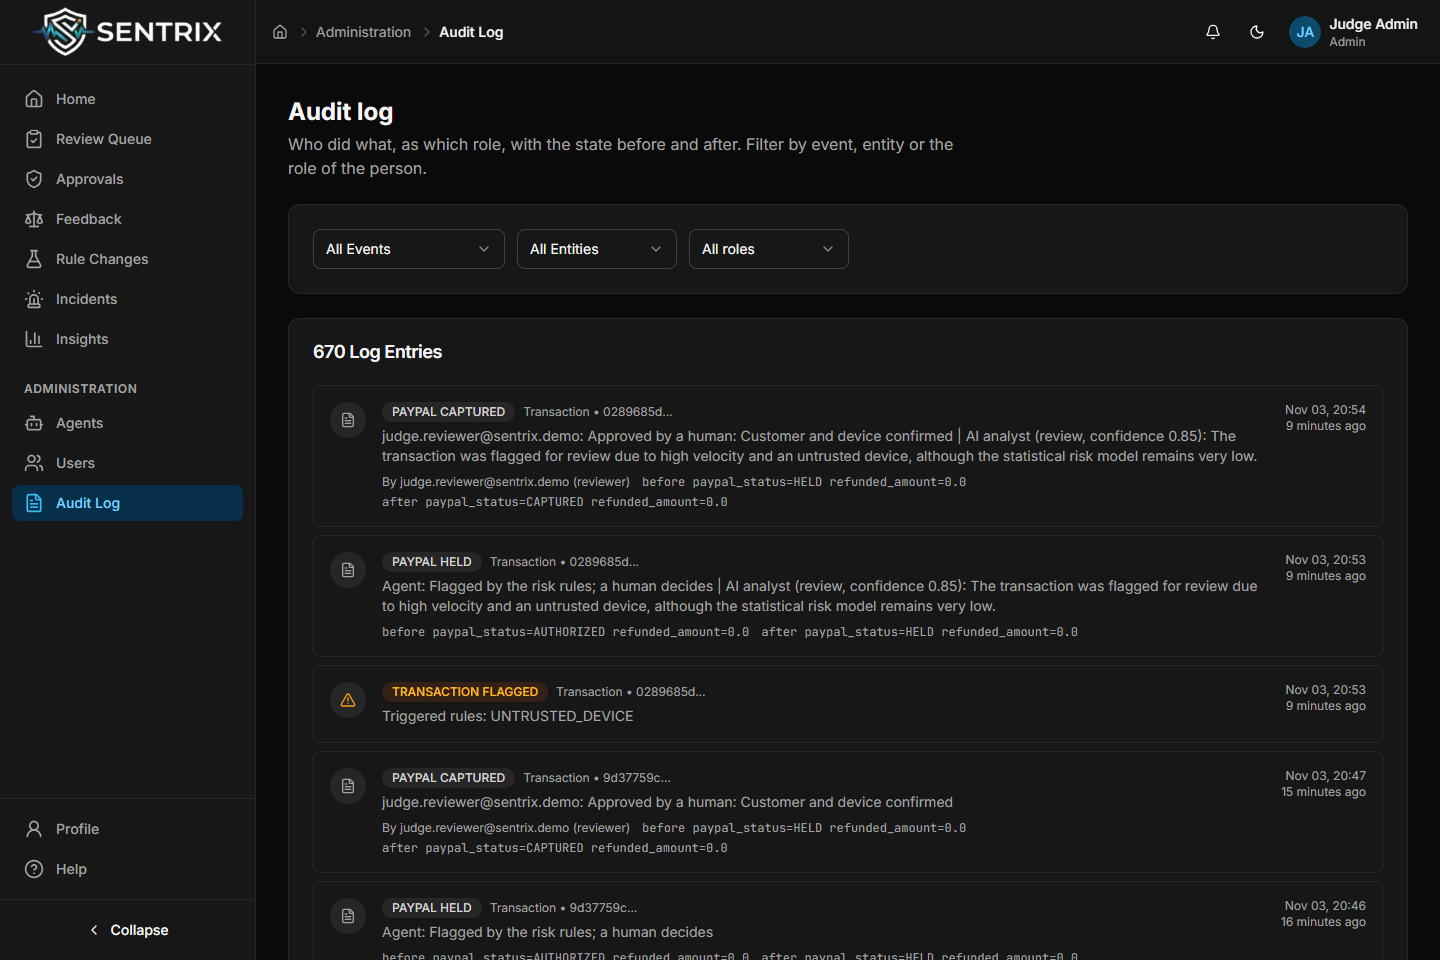
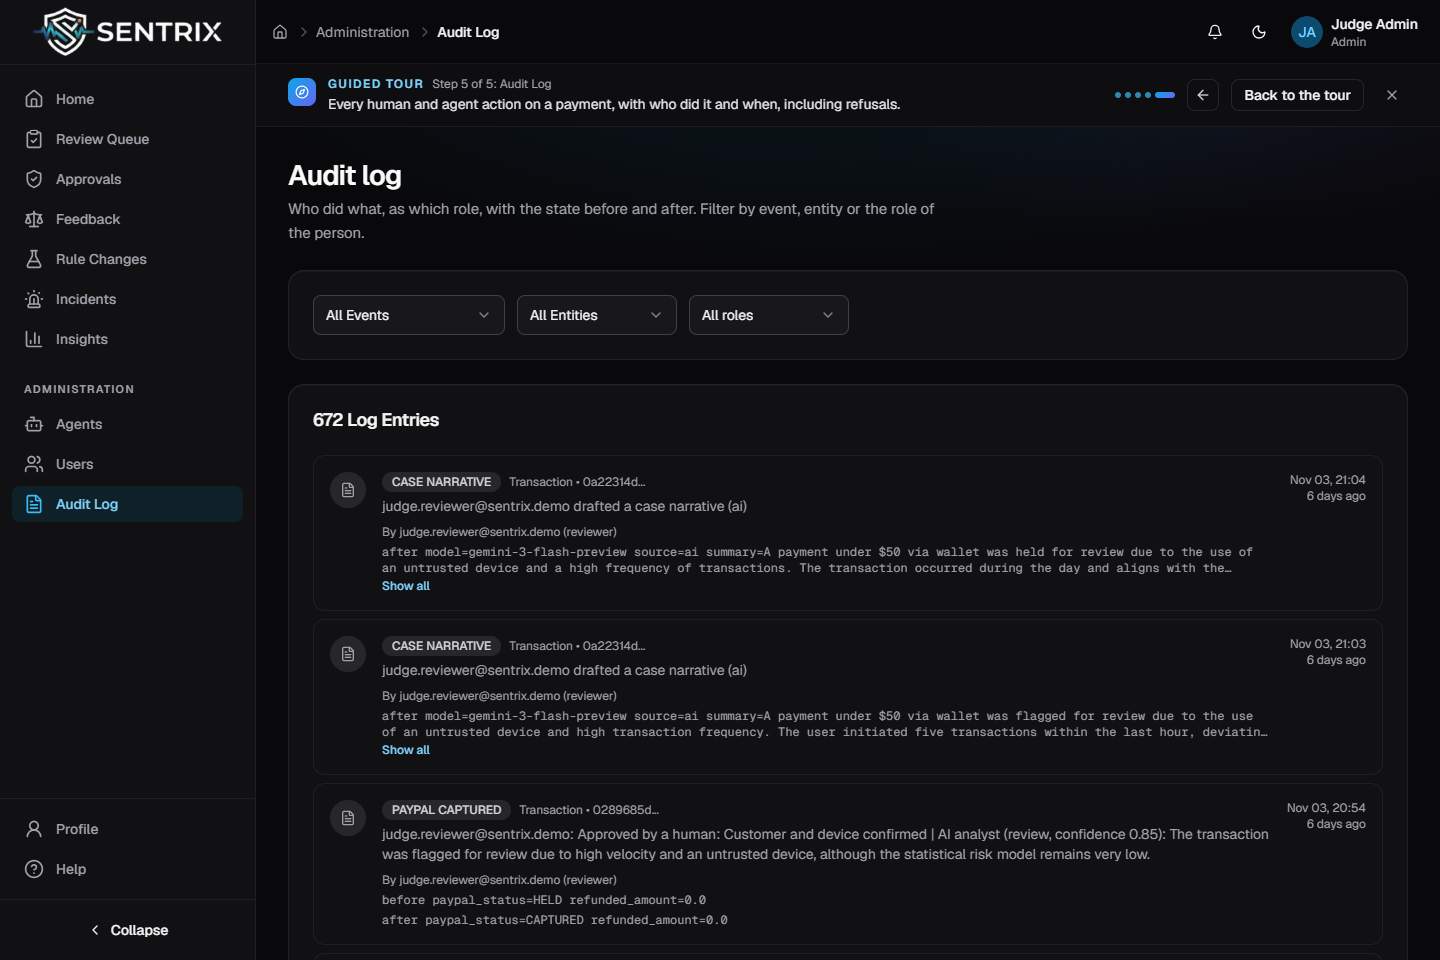
README: tour link and image, new screenshots, current things to try, revamp in the change table

diff --git a/README.md b/README.md
@@ -13,7 +13,7 @@
 </p>
 
 <p align="center">
-  <a href="https://fintech-fraud-detection-aryan.vercel.app"><strong>Live demo</strong></a>
+  <a href="https://fintech-fraud-detection-aryan.vercel.app/tour"><strong>Live demo</strong></a>
   &middot;
   <a href="https://youtu.be/i2tTB4IEENQ">Demo video</a>
   &middot;
@@ -38,7 +38,13 @@
 </p>
 
 <p align="center">
-  <a href="https://fintech-fraud-detection-aryan.vercel.app">
+  <a href="https://fintech-fraud-detection-aryan.vercel.app/tour">
+    <img src="docs/images/sentrix-tour.png" width="90%" alt="The public tour: PayPal payments checked before the money moves, live counts from the demo and an example of a held payment">
+  </a>
+</p>
+
+<p align="center">
+  <a href="https://fintech-fraud-detection-aryan.vercel.app/tour">
     <img src="docs/images/sentrix-case.png" width="90%" alt="A held payment in the review queue: rules, model and AI analyst side by side, the analyst's answer to Why this verdict, and capture or void buttons">
   </a>
 </p>
@@ -50,7 +56,7 @@
   <br><sub>Demo video, 2:17: one purchase through a customer, a reviewer and an admin, on the PayPal sandbox. Synthetic voice.</sub>
 </p>
 
-<p align="center"><sub>Last updated: 2026-11-03 &middot; Live on free tiers (Vercel, Render, Neon)</sub></p>
+<p align="center"><sub>Last updated: 2026-11-09 &middot; Live on free tiers (Vercel, Render, Neon)</sub></p>
 
 ---
 
@@ -71,7 +77,7 @@
 
 ## What changed for the PayPal AI Hackathon
 
-This project began before the hackathon period as a rules-based risk-scoring app, built with a collaborator who wrote its original frontend. At the start of the period (2026-10-01) the backend had no PayPal code. Everything below was built and merged between 2026-10-21 and 2026-11-02 by one person; each row links to its pull requests. The PayPal sandbox is used throughout, so no real money moves. Agent payments use a simulated PayPal client (an agent cannot click through PayPal's approval window); the decision path is the real one.
+This project began before the hackathon period as a rules-based risk-scoring app, built with a collaborator who wrote its original frontend. At the start of the period (2026-10-01) the backend had no PayPal code. Everything below was built and merged between 2026-10-21 and 2026-11-09 by one person; each row links to its pull requests. The PayPal sandbox is used throughout, so no real money moves. Agent payments use a simulated PayPal client (an agent cannot click through PayPal's approval window); the decision path is the real one.
 
 | Area | What was added | Pull requests |
 |---|---|---|
@@ -82,10 +88,11 @@ This project began before the hackathon period as a rules-based risk-scoring app
 | Review and roles | Review queue and limits; analyst, reviewer and admin roles; four-eyes approval for over-limit decisions and refunds; customer status and note | [#36](../../pull/36), [#37](../../pull/37), [#46](../../pull/46), [#47](../../pull/47), [#88](../../pull/88) |
 | Reading a case | Account and device ring graph; similar past cases with pgvector | [#73](../../pull/73), [#82](../../pull/82) |
 | Operations | Rate limits, deep health, JSON logs, indexes and keyset pages, incident digest, a load test with measured numbers | [#38](../../pull/38), [#66](../../pull/66), [#70](../../pull/70), [#71](../../pull/71), [#72](../../pull/72) |
+| Product and UX | A public tour with live counts and one-click sandbox sign-in, a guided path through the demo for each role, a redesigned case card (signal cards, tabbed investigation, decision bar), and a design pass over the whole app | [#99](../../pull/99), [#100](../../pull/100), [#101](../../pull/101), [#102](../../pull/102), [#104](../../pull/104) |
 
 Measured, with the source page for each: the AI analyst agrees with the label in 27 of 30 offline cases against 20 of 30 for the rules alone ([docs/ai-evaluation.md](docs/ai-evaluation.md)); the grounding check accepted 10 of 10 faithful texts and rejected 12 of 12 planted fabrications in its synthetic corpus ([docs/analyst-grounding.md](docs/analyst-grounding.md)); list and staff pages stay flat to 40 requests a second at 0.5 CPU with no server errors ([docs/performance.md](docs/performance.md)). Not claimed: a live rejection rate for the AI, an accuracy gain from similar cases (equal to the baseline on 9 cases), or any figure from the demo reviewer decisions, which are scripted.
 
-To try it: the sign-in page has Customer, Reviewer and Admin sandbox logins that fill the form. As Admin, open Agents for four mandates and Review Queue for a payment an agent made from an unused device. `bin/rails demo:traffic` seeds that data locally and `bin/rails demo:clean` removes it.
+To try it: open the [tour](https://fintech-fraud-detection-aryan.vercel.app/tour) and sign in as the customer, reviewer or admin with one click; a guide bar then walks each role through the app page by page. As Admin, open Agents for four mandates and Review Queue for a payment an agent made from an unused device. `bin/rails demo:traffic` seeds that data locally and `bin/rails demo:clean` removes it.
 
 ---
 
@@ -104,7 +111,7 @@ decision, customer feedback on each verdict, and an analytics dashboard.
 
 ## Try it live
 
-Open **https://fintech-fraud-detection-aryan.vercel.app** and sign in:
+Open **https://fintech-fraud-detection-aryan.vercel.app/tour** and pick a role, or sign in on the sign-in page:
 
 | Role | Email | Password |
 |---|---|---|
@@ -117,21 +124,21 @@ These are public sandbox accounts (PayPal sandbox, no real money); the sign-in p
 anyone an admin; `rake demo:judges` creates and resets all three. The API runs on a free instance that sleeps after 15
 minutes without traffic, so the first sign-in can take about a minute.
 
-Things to try in the first two minutes:
+Things to try in the first two minutes (the guide bar at the top of each page follows the same path):
 
-1. Open the **dashboard**: payment counts by outcome, volume over time, risk distribution and a risk
-   heatmap by day and hour.
-2. Create a small card payment. Your browser is a device this account has never used, so it comes
-   back **flagged** with `UNTRUSTED_DEVICE`.
-3. Create a 95,000 card payment. It comes back **blocked**, with the rules that fired listed (for
-   example `AMOUNT_DEVIATION_HIGH` and `UNTRUSTED_DEVICE`).
-4. Open **Risk Analysis** to see score ranges, the most-triggered rules and the high-risk payments.
-5. Open the bell: each flagged or blocked payment raised a notification.
+1. As the **reviewer**, open **Review Queue**. Each card is a payment PayPal has authorized but not captured: why it
+   was held, the rules score, the model score and the AI analyst's verdict side by side.
+2. Ask the analyst **Why this verdict?**, then open **Similar cases**. The answer is checked against the case facts
+   before it is shown and never changes the decision.
+3. **Capture at PayPal** or **Void at PayPal**: a real call to PayPal's sandbox, written to the audit log.
+4. As the **admin**, open **Agents** for the agent mandates and **Rule Changes** for an agent-drafted rule change with
+   its replay over stored payments.
+5. As the **customer**, pay with PayPal's sandbox buttons on **Pay**, then open **History**.
 
 <table>
   <tr>
     <td width="50%"><img src="docs/images/sentrix-history.png" alt="Payment history with status, rules score, model score, AI verdict and action taken per payment"><p align="center"><sub>Every payment with its outcome, scores and the decision taken</sub></p></td>
-    <td width="50%"><img src="docs/images/sentrix-audit.png" alt="Audit log: a capture with the reviewer note, the hold and the flag, each with before and after state"><p align="center"><sub>The audit log: who decided, what PayPal was told</sub></p></td>
+    <td width="50%"><img src="docs/images/sentrix-audit.png" alt="Audit log: drafted case narratives and a capture, each with who did it and the state before and after"><p align="center"><sub>The audit log: who decided, what PayPal was told</sub></p></td>
   </tr>
 </table>
 
